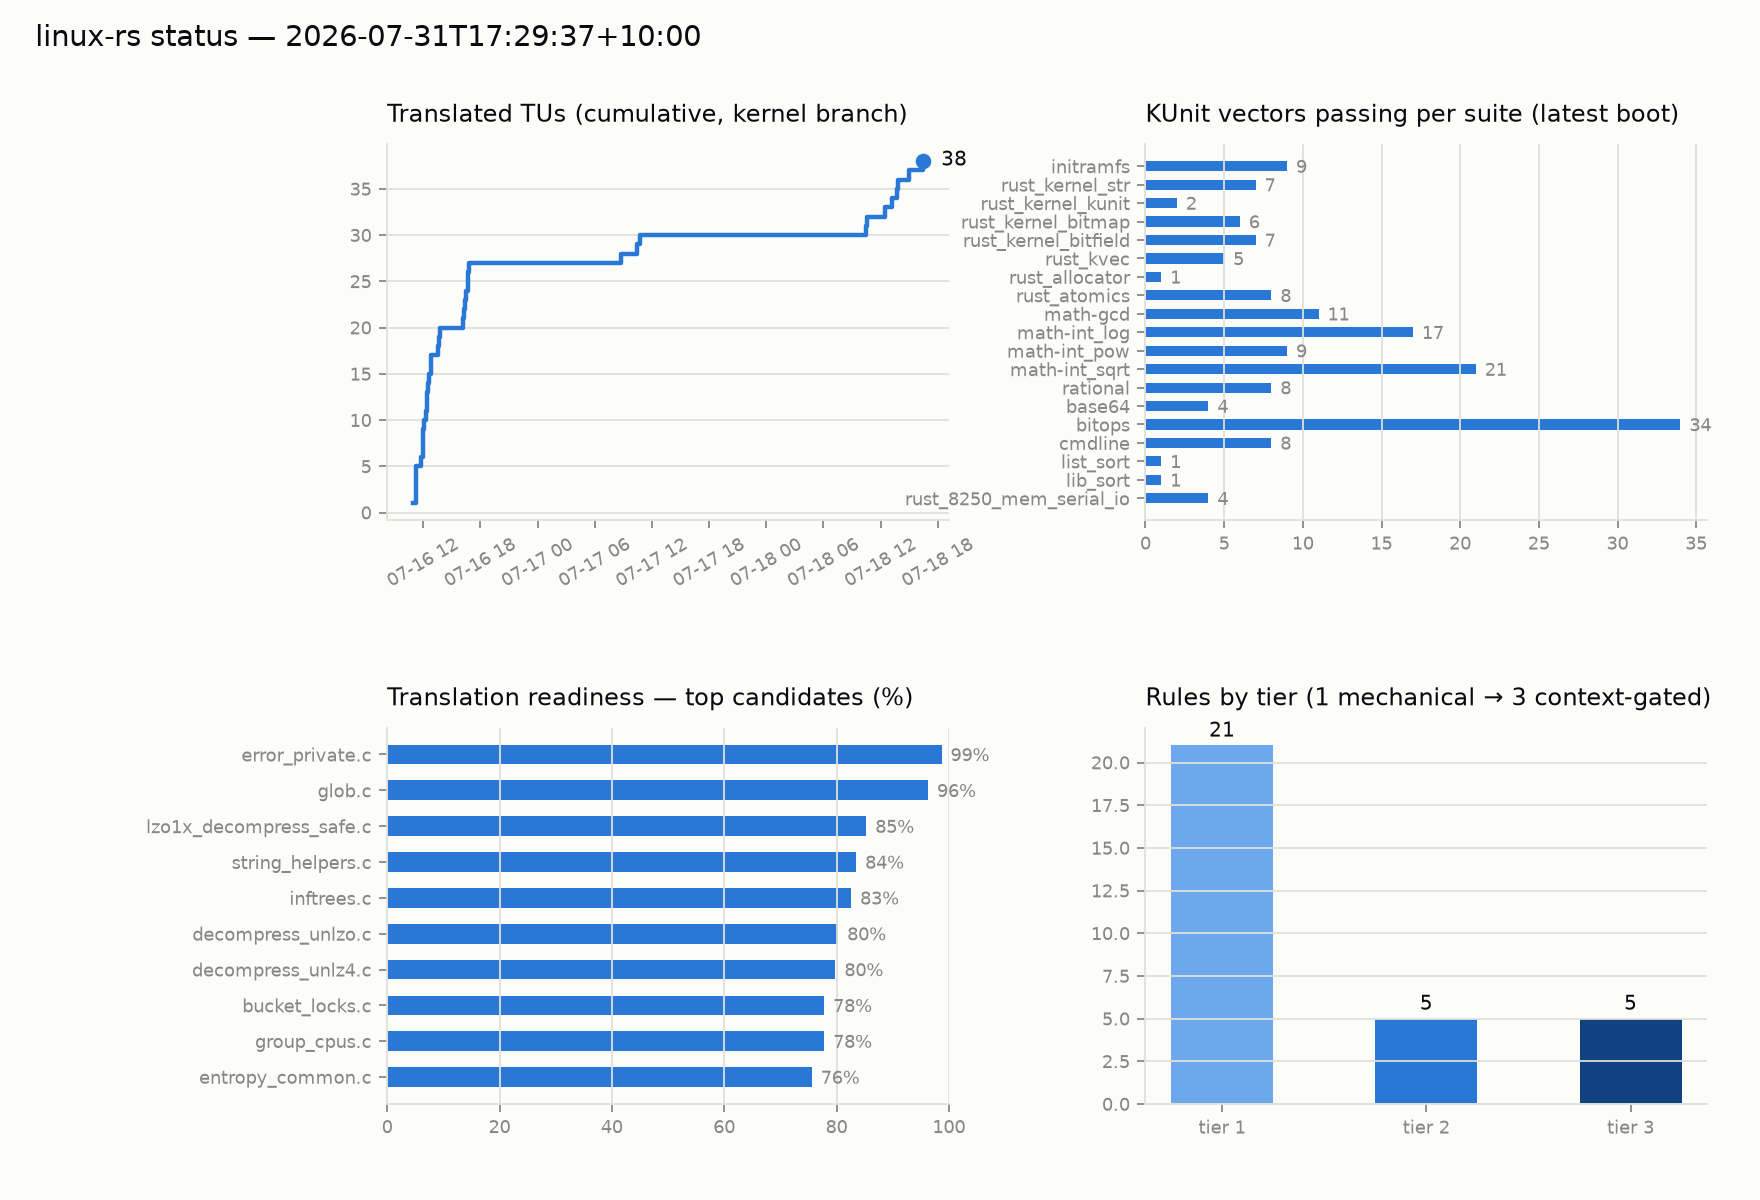
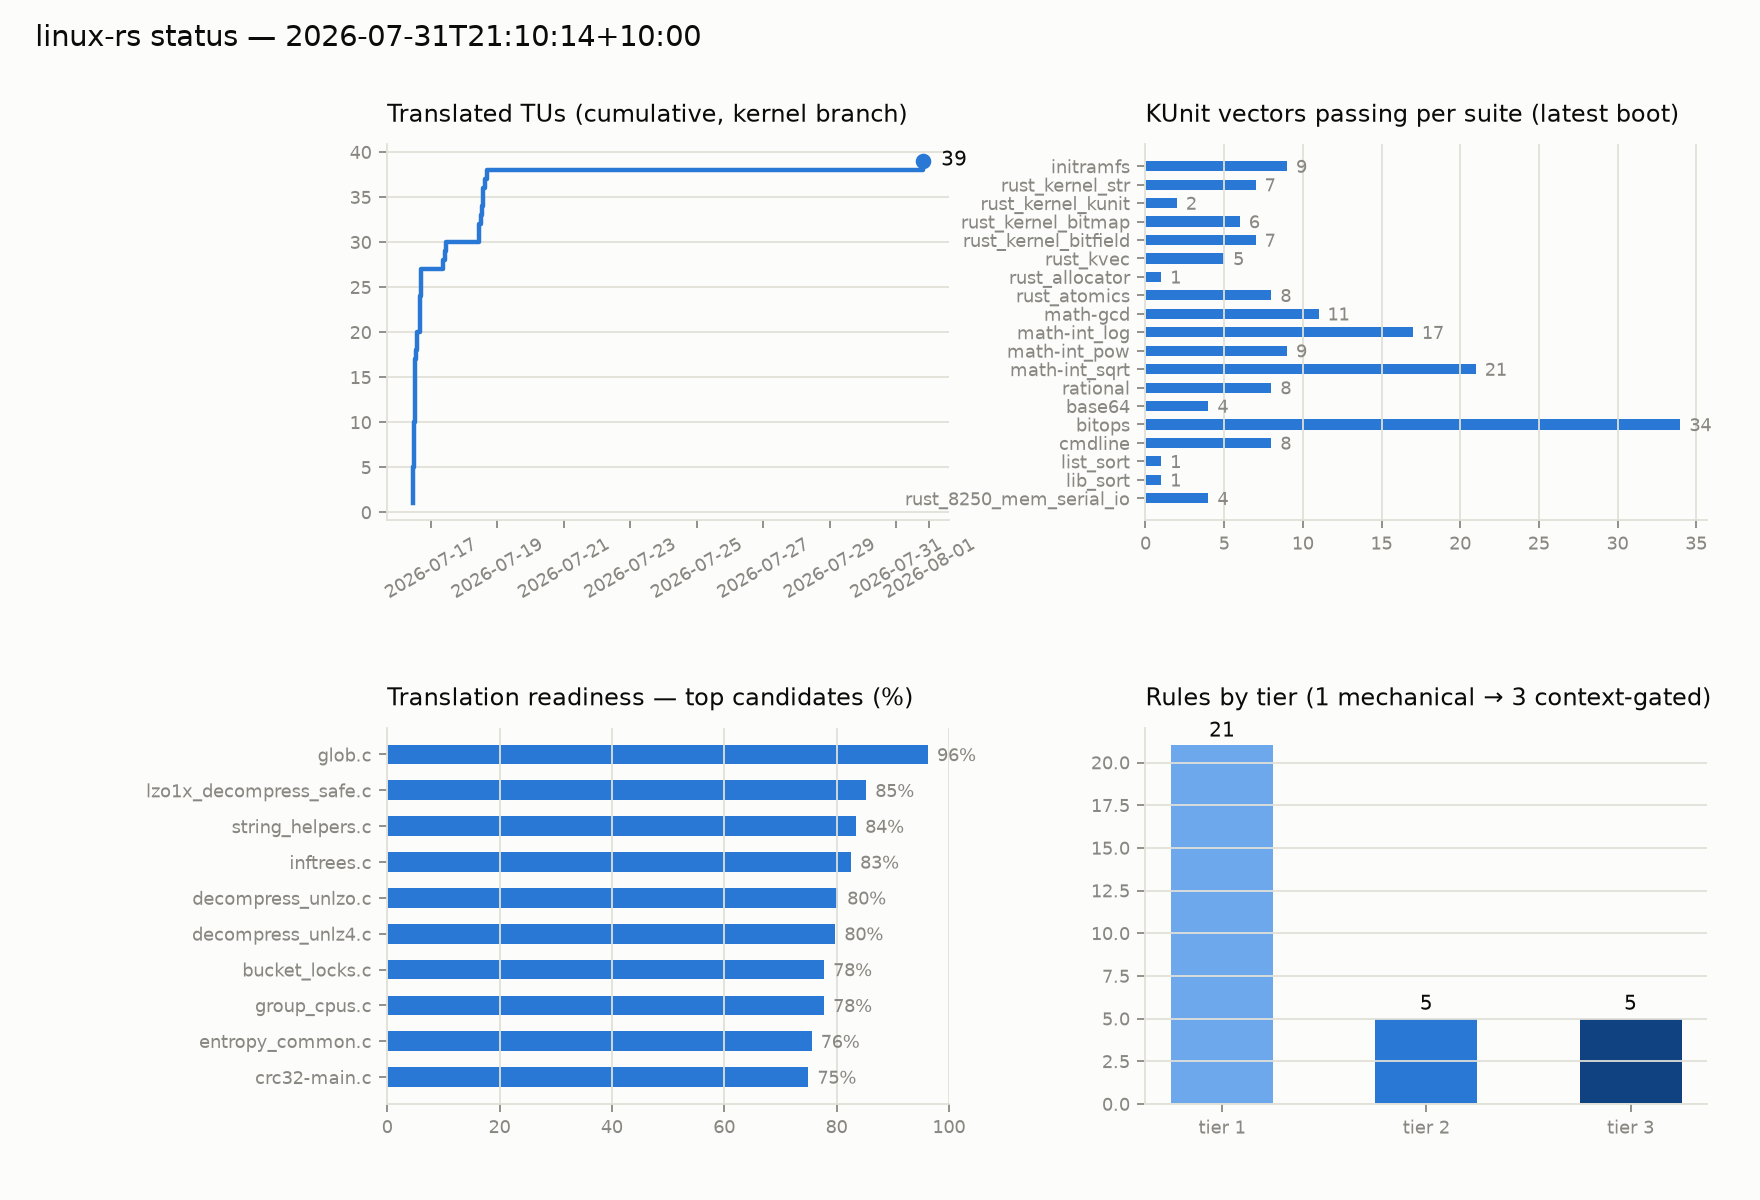
lib/zstd: add Tier-2.5 differential oracle for error_private translation
bench/diff_error_private.{c,rs}: independent reference reimplementation
of ERR_getErrorString (kernel-crate bindings/CStr stripped), same
LCG-driven protocol as every other bench/diff_*.{c,rs} pair. Domain:
half real known error codes (all 36 including maxCode's fallthrough to
default), half arbitrary in/out-of-range codes to exercise the default
branch. ORACLE 2.5 PASS: 2500 cases, 5000 output lines, byte-identical.

docs/STATUS.md/history.csv/status.png: script-owned progress snapshot,
regenerated by dev.py check's real run for this translation (38->39
displayed TU count, matching kernel commit 59026ade7e7e).

diff --git a/bench/diff_error_private.c b/bench/diff_error_private.c
@@ -1,0 +1,128 @@
+// SPDX-License-Identifier: GPL-2.0+ OR BSD-3-Clause
+// Tier-2.5 differential oracle: C original vs Rust translation,
+// error_private (zstd). Reference extracted from
+// lib/zstd/common/error_private.c (v7.1), kept byte-identical to the
+// #else (non-ZSTD_STRIP_ERROR_STRINGS) branch, since that's the live
+// path in this kernel's .config.
+#include <stdint.h>
+#include <stdio.h>
+#include <stdlib.h>
+
+typedef enum {
+  no_error = 0,
+  GENERIC  = 1,
+  prefix_unknown                = 10,
+  version_unsupported           = 12,
+  frameParameter_unsupported    = 14,
+  frameParameter_windowTooLarge = 16,
+  corruption_detected = 20,
+  checksum_wrong      = 22,
+  literals_headerWrong = 24,
+  dictionary_corrupted      = 30,
+  dictionary_wrong          = 32,
+  dictionaryCreation_failed = 34,
+  parameter_unsupported   = 40,
+  parameter_combination_unsupported = 41,
+  parameter_outOfBound    = 42,
+  tableLog_tooLarge       = 44,
+  maxSymbolValue_tooLarge = 46,
+  maxSymbolValue_tooSmall = 48,
+  cannotProduce_uncompressedBlock = 49,
+  stabilityCondition_notRespected = 50,
+  stage_wrong       = 60,
+  init_missing      = 62,
+  memory_allocation = 64,
+  workSpace_tooSmall= 66,
+  dstSize_tooSmall = 70,
+  srcSize_wrong    = 72,
+  dstBuffer_null   = 74,
+  noForwardProgress_destFull = 80,
+  noForwardProgress_inputEmpty = 82,
+  frameIndex_tooLarge = 100,
+  seekableIO          = 102,
+  dstBuffer_wrong     = 104,
+  srcBuffer_wrong     = 105,
+  sequenceProducer_failed = 106,
+  externalSequences_invalid = 107,
+  maxCode = 120
+} test_enum;
+
+static const char* ERR_getErrorString(test_enum code)
+{
+    static const char* const notErrorCode = "Unspecified error code";
+    switch( code )
+    {
+    case no_error: return "No error detected";
+    case GENERIC:  return "Error (generic)";
+    case prefix_unknown: return "Unknown frame descriptor";
+    case version_unsupported: return "Version not supported";
+    case frameParameter_unsupported: return "Unsupported frame parameter";
+    case frameParameter_windowTooLarge: return "Frame requires too much memory for decoding";
+    case corruption_detected: return "Data corruption detected";
+    case checksum_wrong: return "Restored data doesn't match checksum";
+    case literals_headerWrong: return "Header of Literals' block doesn't respect format specification";
+    case parameter_unsupported: return "Unsupported parameter";
+    case parameter_combination_unsupported: return "Unsupported combination of parameters";
+    case parameter_outOfBound: return "Parameter is out of bound";
+    case init_missing: return "Context should be init first";
+    case memory_allocation: return "Allocation error : not enough memory";
+    case workSpace_tooSmall: return "workSpace buffer is not large enough";
+    case stage_wrong: return "Operation not authorized at current processing stage";
+    case tableLog_tooLarge: return "tableLog requires too much memory : unsupported";
+    case maxSymbolValue_tooLarge: return "Unsupported max Symbol Value : too large";
+    case maxSymbolValue_tooSmall: return "Specified maxSymbolValue is too small";
+    case cannotProduce_uncompressedBlock: return "This mode cannot generate an uncompressed block";
+    case stabilityCondition_notRespected: return "pledged buffer stability condition is not respected";
+    case dictionary_corrupted: return "Dictionary is corrupted";
+    case dictionary_wrong: return "Dictionary mismatch";
+    case dictionaryCreation_failed: return "Cannot create Dictionary from provided samples";
+    case dstSize_tooSmall: return "Destination buffer is too small";
+    case srcSize_wrong: return "Src size is incorrect";
+    case dstBuffer_null: return "Operation on NULL destination buffer";
+    case noForwardProgress_destFull: return "Operation made no progress over multiple calls, due to output buffer being full";
+    case noForwardProgress_inputEmpty: return "Operation made no progress over multiple calls, due to input being empty";
+    case frameIndex_tooLarge: return "Frame index is too large";
+    case seekableIO: return "An I/O error occurred when reading/seeking";
+    case dstBuffer_wrong: return "Destination buffer is wrong";
+    case srcBuffer_wrong: return "Source buffer is wrong";
+    case sequenceProducer_failed: return "Block-level external sequence producer returned an error code";
+    case externalSequences_invalid: return "External sequences are not valid";
+    case maxCode:
+    default: return notErrorCode;
+    }
+}
+
+// Real, known enum values (all 35 cases including maxCode).
+static const int known_codes[] = {
+    0, 1, 10, 12, 14, 16, 20, 22, 24, 30, 32, 34, 40, 41, 42, 44, 46, 48,
+    49, 50, 60, 62, 64, 66, 70, 72, 74, 80, 82, 100, 102, 104, 105, 106,
+    107, 120,
+};
+
+// Explicit LCG (same constants used across all bench/diff_*.c files).
+static uint64_t lcg_state;
+static uint32_t lcg_next(void)
+{
+	lcg_state = lcg_state * 6364136223846793005ULL + 1442695040888963407ULL;
+	return (uint32_t)(lcg_state >> 32);
+}
+
+int main(int argc, char **argv)
+{
+	long n = argc > 1 ? atol(argv[1]) : 5000;
+	lcg_state = argc > 2 ? (uint64_t)atol(argv[2]) : 271828;
+	int nknown = (int)(sizeof(known_codes) / sizeof(known_codes[0]));
+
+	for (long i = 0; i < n; i++) {
+		int code;
+		// Half known-real codes, half arbitrary (mostly hits default).
+		if (lcg_next() % 2 == 0) {
+			code = known_codes[lcg_next() % nknown];
+		} else {
+			code = (int)(lcg_next() % 200) - 50;
+		}
+		const char *s = ERR_getErrorString((test_enum)code);
+		printf("code,%d,%s\n", code, s);
+	}
+	return 0;
+}

diff --git a/bench/diff_error_private.rs b/bench/diff_error_private.rs
@@ -1,0 +1,81 @@
+// SPDX-License-Identifier: GPL-2.0+ OR BSD-3-Clause
+//! Tier-2.5 differential oracle: Rust translation side, error_private.
+//! Faithful copy of lib/zstd/common/error_private_rs.rs's algorithm
+//! (kernel-crate bindings/export/CStr stripped, returns &'static str
+//! instead) — same protocol/LCG as diff_error_private.c.
+
+fn err_get_error_string(code: i32) -> &'static str {
+    match code {
+        0 => "No error detected",
+        1 => "Error (generic)",
+        10 => "Unknown frame descriptor",
+        12 => "Version not supported",
+        14 => "Unsupported frame parameter",
+        16 => "Frame requires too much memory for decoding",
+        20 => "Data corruption detected",
+        22 => "Restored data doesn't match checksum",
+        24 => "Header of Literals' block doesn't respect format specification",
+        40 => "Unsupported parameter",
+        41 => "Unsupported combination of parameters",
+        42 => "Parameter is out of bound",
+        44 => "tableLog requires too much memory : unsupported",
+        46 => "Unsupported max Symbol Value : too large",
+        48 => "Specified maxSymbolValue is too small",
+        49 => "This mode cannot generate an uncompressed block",
+        50 => "pledged buffer stability condition is not respected",
+        30 => "Dictionary is corrupted",
+        32 => "Dictionary mismatch",
+        34 => "Cannot create Dictionary from provided samples",
+        70 => "Destination buffer is too small",
+        72 => "Src size is incorrect",
+        74 => "Operation on NULL destination buffer",
+        80 => "Operation made no progress over multiple calls, due to output buffer being full",
+        82 => "Operation made no progress over multiple calls, due to input being empty",
+        100 => "Frame index is too large",
+        102 => "An I/O error occurred when reading/seeking",
+        104 => "Destination buffer is wrong",
+        105 => "Source buffer is wrong",
+        106 => "Block-level external sequence producer returned an error code",
+        107 => "External sequences are not valid",
+        60 => "Operation not authorized at current processing stage",
+        62 => "Context should be init first",
+        64 => "Allocation error : not enough memory",
+        66 => "workSpace buffer is not large enough",
+        _ => "Unspecified error code",
+    }
+}
+
+const KNOWN_CODES: [i32; 36] = [
+    0, 1, 10, 12, 14, 16, 20, 22, 24, 30, 32, 34, 40, 41, 42, 44, 46, 48,
+    49, 50, 60, 62, 64, 66, 70, 72, 74, 80, 82, 100, 102, 104, 105, 106,
+    107, 120,
+];
+
+// Identical LCG to diff_error_private.c.
+struct Lcg(u64);
+impl Lcg {
+    fn next(&mut self) -> u32 {
+        self.0 = self
+            .0
+            .wrapping_mul(6364136223846793005)
+            .wrapping_add(1442695040888963407);
+        (self.0 >> 32) as u32
+    }
+}
+
+fn main() {
+    let args: Vec<String> = std::env::args().collect();
+    let n: u64 = args.get(1).and_then(|a| a.parse().ok()).unwrap_or(5000);
+    let seed: u64 = args.get(2).and_then(|a| a.parse().ok()).unwrap_or(271828);
+    let mut rng = Lcg(seed);
+
+    for _ in 0..n {
+        let code: i32 = if rng.next() % 2 == 0 {
+            KNOWN_CODES[(rng.next() as usize) % KNOWN_CODES.len()]
+        } else {
+            (rng.next() % 200) as i32 - 50
+        };
+        let s = err_get_error_string(code);
+        println!("code,{},{}", code, s);
+    }
+}

diff --git a/docs/STATUS.md b/docs/STATUS.md
@@ -1,16 +1,16 @@
-# Status — 2026-07-31T17:29:37+10:00
+# Status — 2026-07-31T21:10:14+10:00
 
 ![status](status/status.png)
 
-- Translated TUs: **38**   ·   KUnit: **19 suites, 160 vectors** green   ·   Rules: **31** (t1 21 / t2 5 / t3 5)
-- Wired into live boot path: **6 functions across 1 file(s)** (vs. **39** total TUs landed) — see [docs/streams.md](streams.md)'s stream 2 ("c2rust-boot-blocker") for why this is the harder, more important milestone: a standalone `lib/` swap compiling clean is not the same as real Rust executing at a live, pre-existing C call site.
+- Translated TUs: **39**   ·   KUnit: **19 suites, 160 vectors** green   ·   Rules: **31** (t1 21 / t2 5 / t3 5)
+- Wired into live boot path: **6 functions across 1 file(s)** (vs. **40** total TUs landed) — see [docs/streams.md](streams.md)'s stream 2 ("c2rust-boot-blocker") for why this is the harder, more important milestone: a standalone `lib/` swap compiling clean is not the same as real Rust executing at a live, pre-existing C call site.
 
 ## Boot-path integration patterns (live-derived, not hand-maintained)
 
 | pattern | count | detection |
 |---|---|---|
 | In-place wired (`#ifdef CONFIG_RUST` C wrapper calls a `*_rs` fn) | **6 fns / 1 file(s)** | regex scan of `linux-riscv/**/*.c` for `#ifdef CONFIG_RUST` blocks calling a `*_rs(...)` function |
-| Whole-file `lib/` swap (Makefile points straight at `*_rs.rs`, no call-site wrapper) | **39** | `*_rs.rs` TUs whose sibling `.c` (if any) has no `#ifdef CONFIG_RUST` wrapper calling into it |
+| Whole-file `lib/` swap (Makefile points straight at `*_rs.rs`, no call-site wrapper) | **40** | `*_rs.rs` TUs whose sibling `.c` (if any) has no `#ifdef CONFIG_RUST` wrapper calling into it |
 
 <details><summary>Wired functions (detail)</summary>
 
@@ -48,7 +48,6 @@
 
 | TU | readiness |
 |---|---|
-| lib/zstd/common/error_private.c | 98.7% |
 | lib/glob.c | 96.3% |
 | lib/lzo/lzo1x_decompress_safe.c | 85.3% |
 | lib/string_helpers.c | 83.5% |
@@ -58,5 +57,6 @@
 | lib/bucket_locks.c | 77.8% |
 | lib/group_cpus.c | 77.8% |
 | lib/zstd/common/entropy_common.c | 75.6% |
+| lib/crc/crc32-main.c | 75.0% |
 
 _Auto-generated by `scripts/report.py` (via `dev.py check`); history in [status/history.csv](status/history.csv)._
